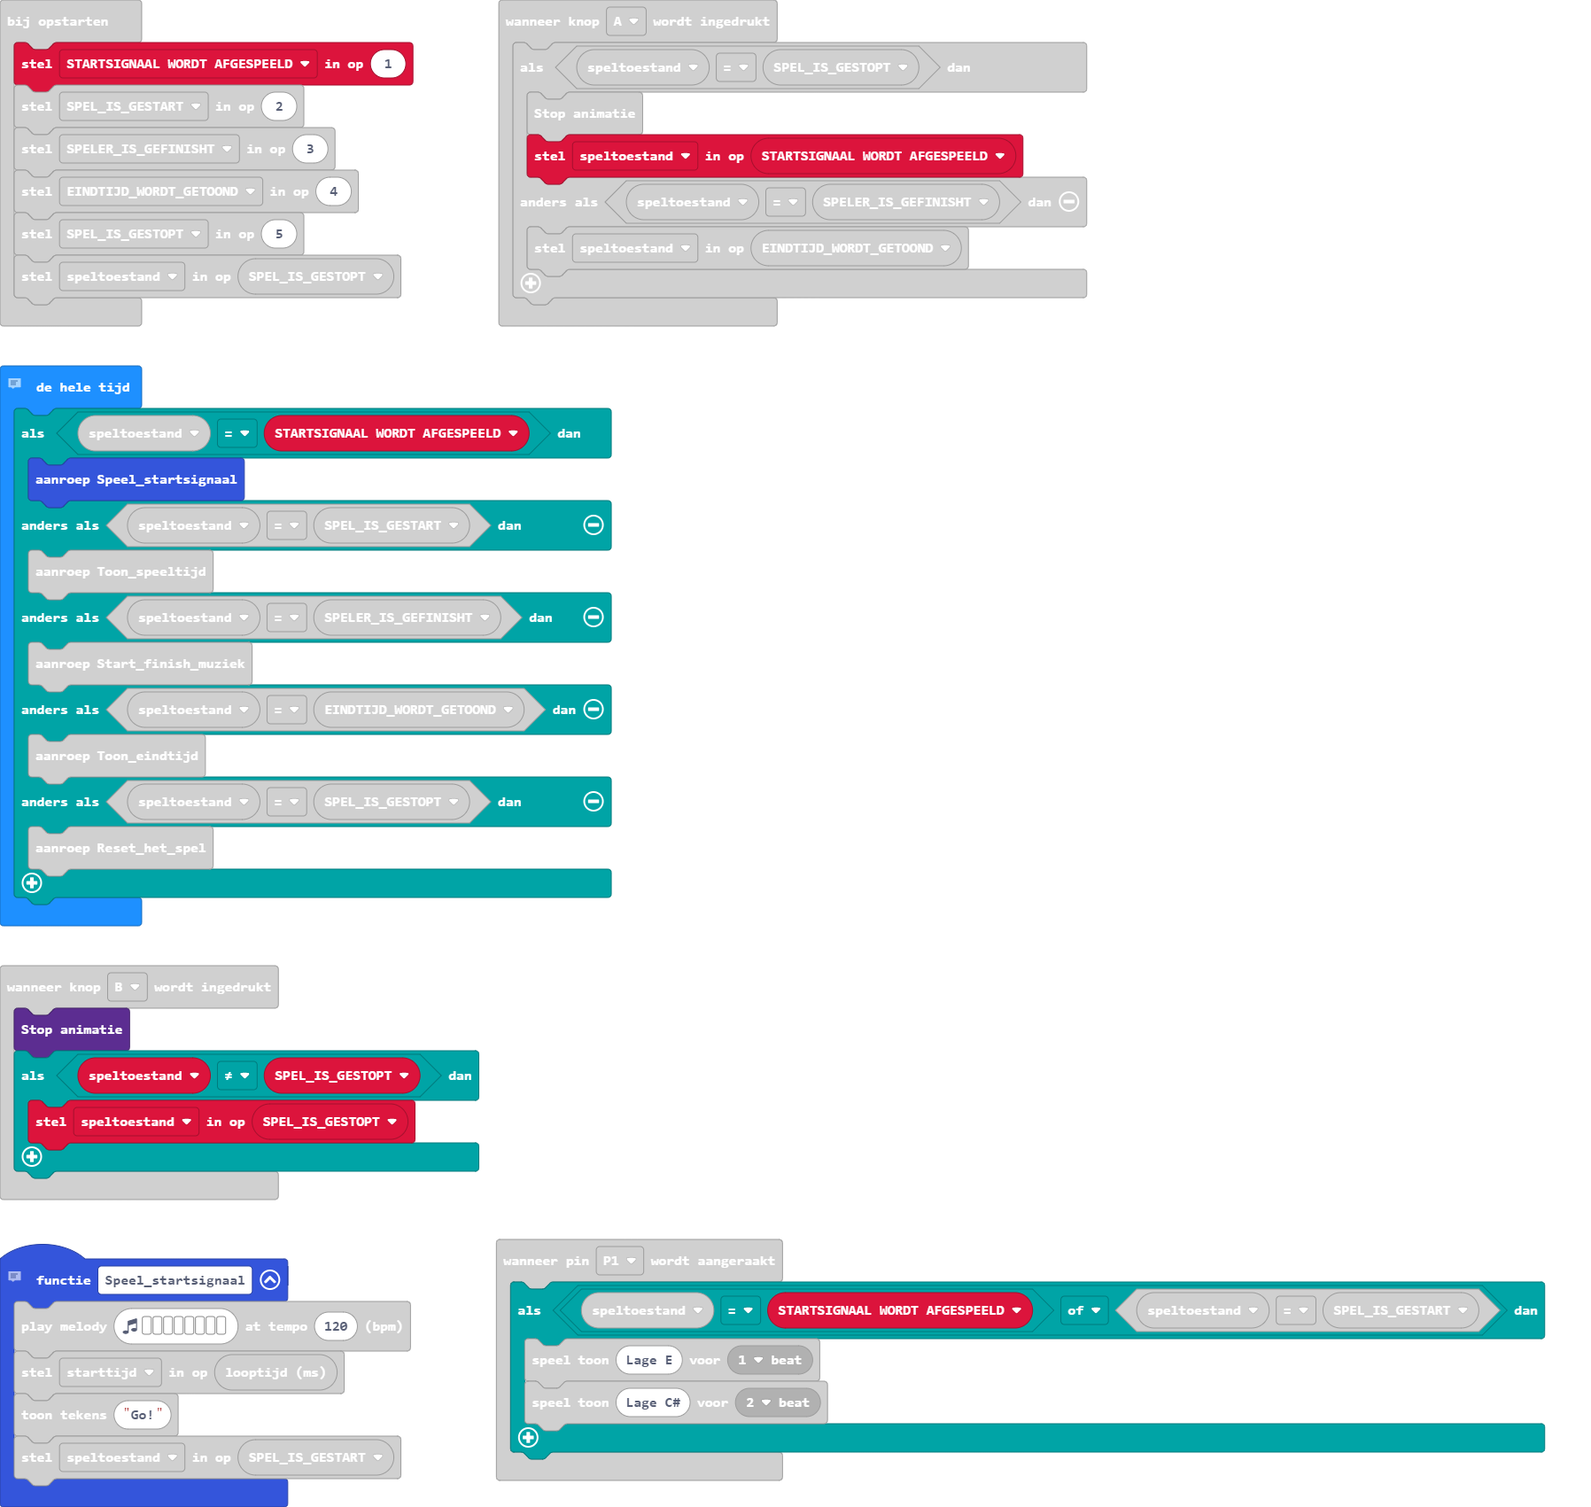
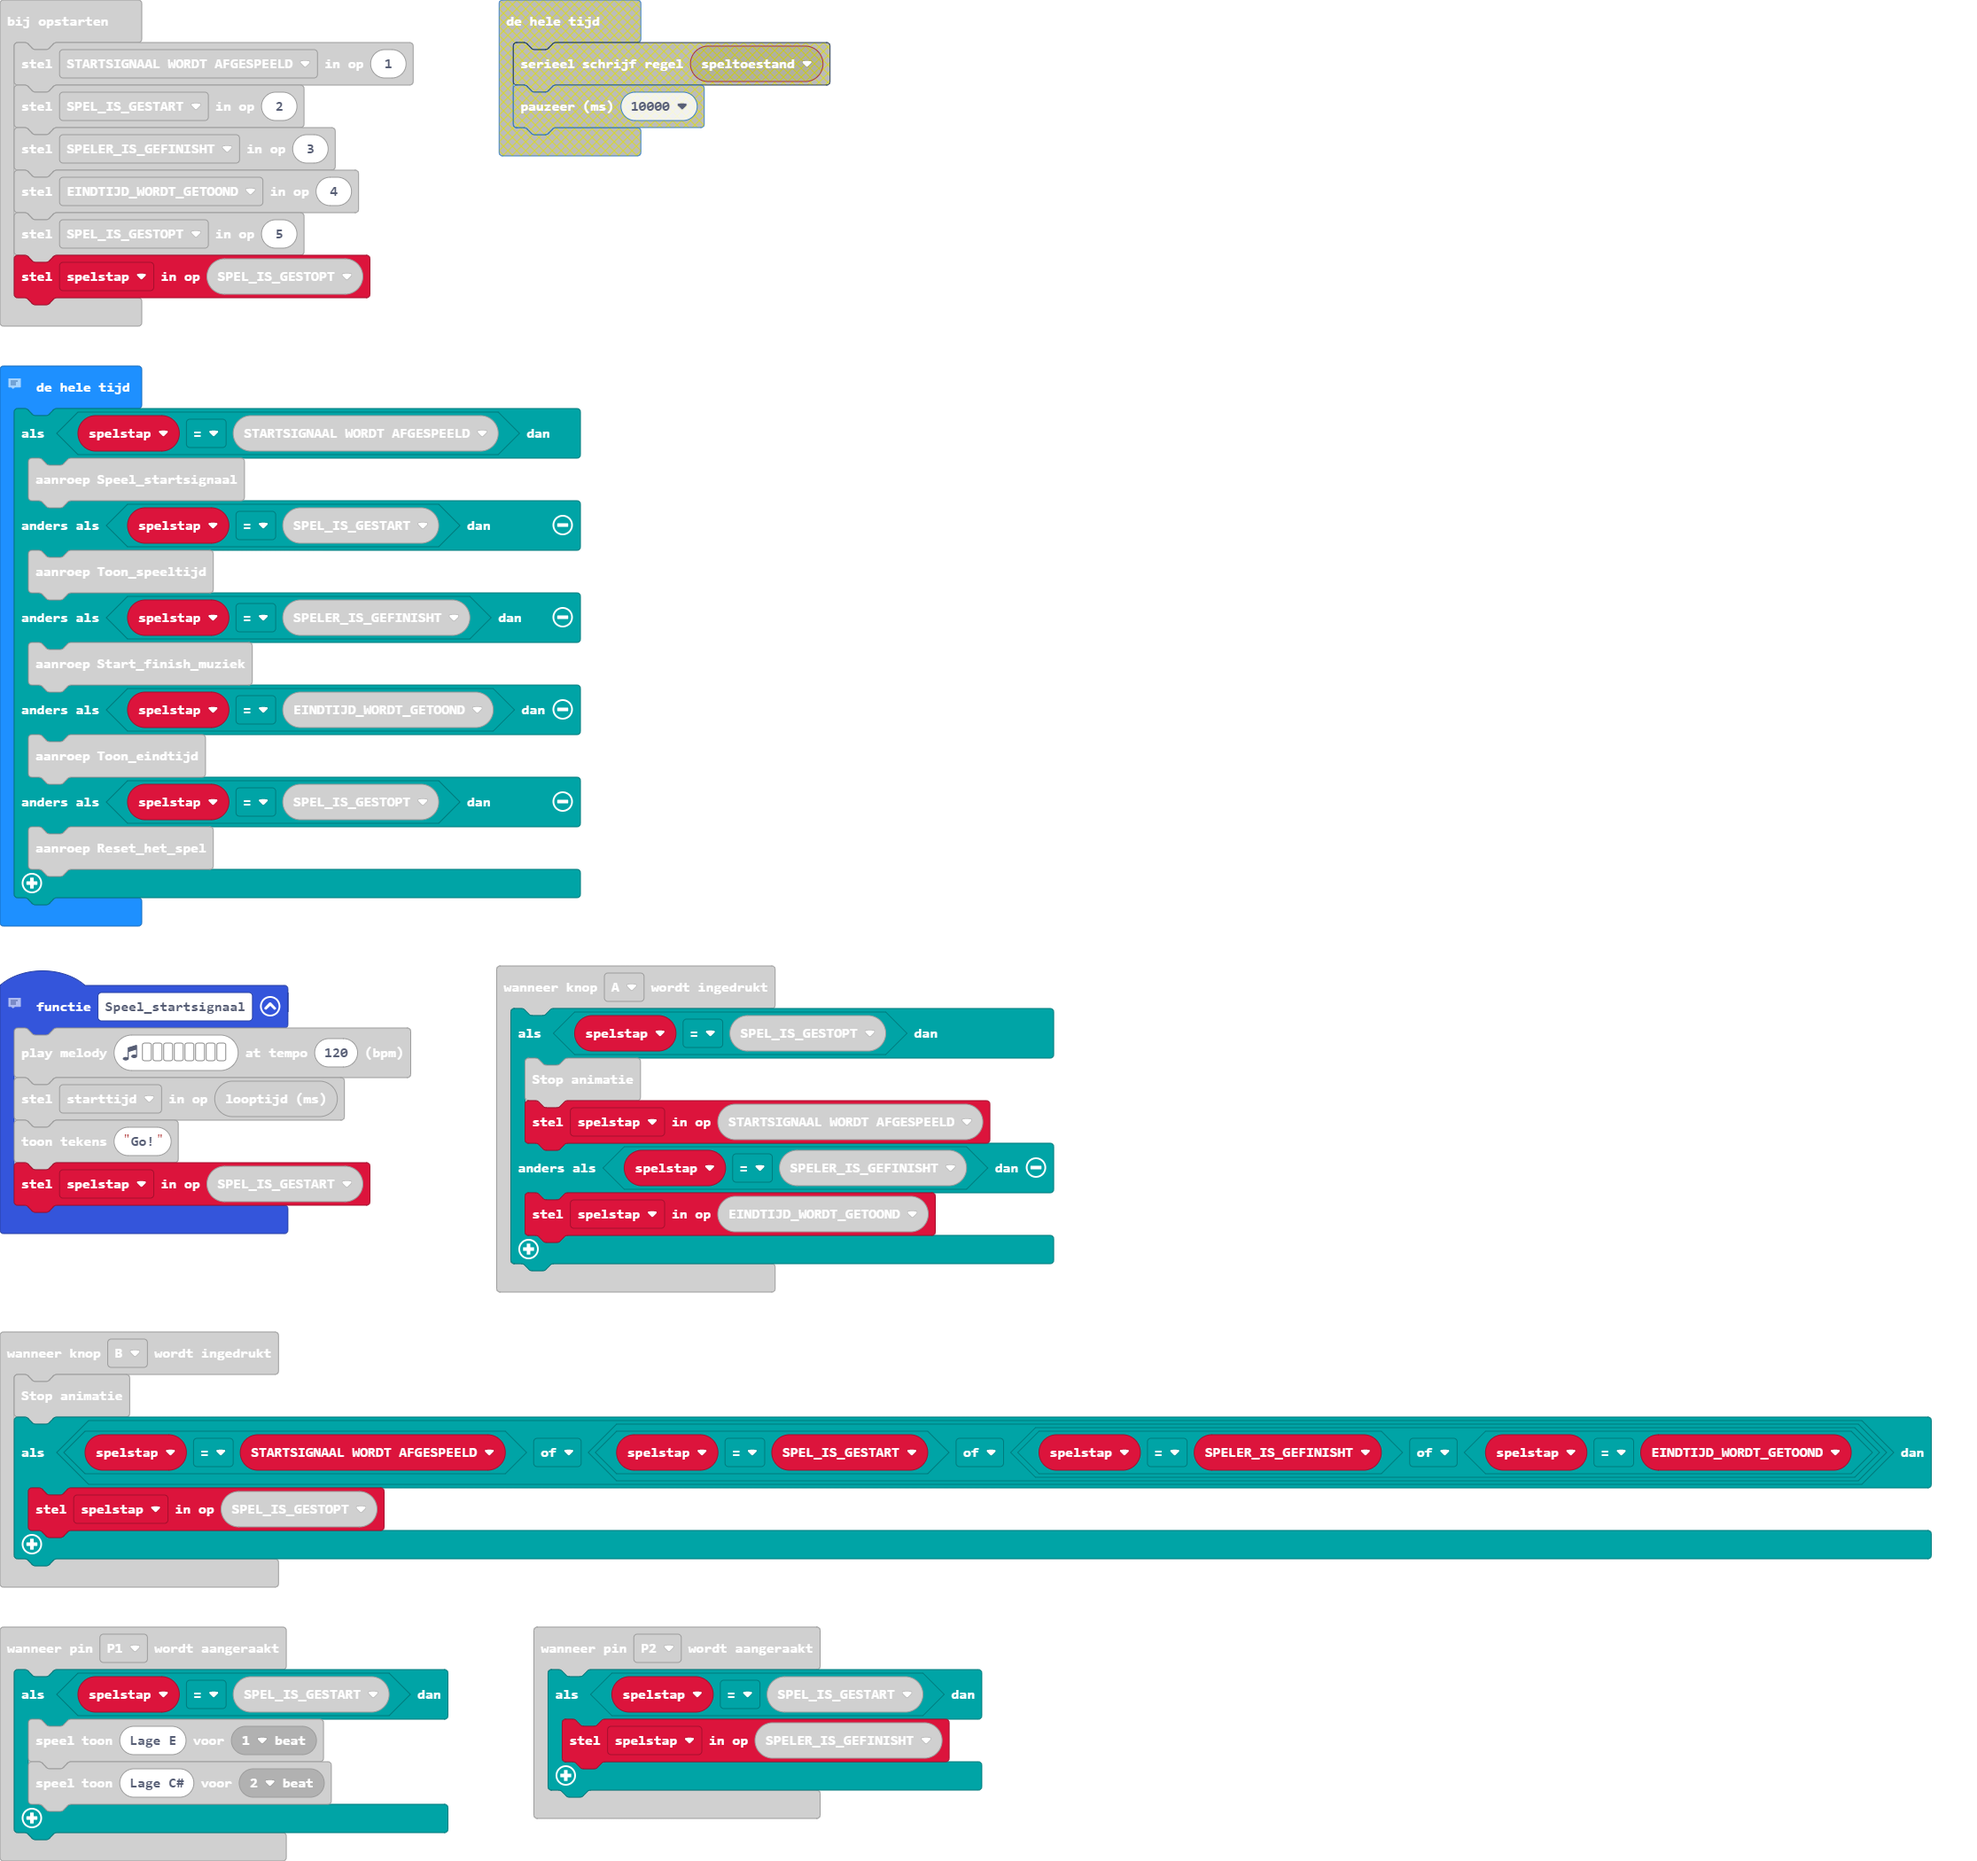
Update main.blocks, main.ts

diff --git a/main.ts b/main.ts
@@ -29,11 +29,11 @@ function Toon_speeltijd () {
     }
 }
 input.onButtonPressed(Button.A, function () {
-    if (speltoestand == SPEL_IS_GESTOPT) {
+    if (spelstap == SPEL_IS_GESTOPT) {
         led.stopAnimation()
-        speltoestand = STARTSIGNAAL_WORDT_AFGESPEELD
-    } else if (speltoestand == SPELER_IS_GEFINISHT) {
-        speltoestand = EINDTIJD_WORDT_GETOOND
+        spelstap = STARTSIGNAAL_WORDT_AFGESPEELD
+    } else if (spelstap == SPELER_IS_GEFINISHT) {
+        spelstap = EINDTIJD_WORDT_GETOOND
     }
 })
 // - Speel het aftelgeluid af
@@ -43,7 +43,7 @@ function Speel_startsignaal () {
     music.playMelody("C - C - C5 - - - ", 120)
     starttijd = input.runningTime()
     basic.showString("Go!")
-    speltoestand = SPEL_IS_GESTART
+    spelstap = SPEL_IS_GESTART
 }
 // - Stop de finish muziek
 // 
@@ -53,8 +53,8 @@ function Toon_eindtijd () {
     basic.showString(" Tijd: " + speeltijd)
 }
 input.onPinPressed(TouchPin.P2, function () {
-    if (speltoestand == SPEL_IS_GESTART) {
-        speltoestand = SPELER_IS_GEFINISHT
+    if (spelstap == SPEL_IS_GESTART) {
+        spelstap = SPELER_IS_GEFINISHT
     }
 })
 input.onButtonPressed(Button.AB, function () {
@@ -63,12 +63,12 @@ input.onButtonPressed(Button.AB, function () {
 })
 input.onButtonPressed(Button.B, function () {
     led.stopAnimation()
-    if (speltoestand != SPEL_IS_GESTOPT) {
-        speltoestand = SPEL_IS_GESTOPT
+    if (spelstap == STARTSIGNAAL_WORDT_AFGESPEELD || (spelstap == SPEL_IS_GESTART || (spelstap == SPELER_IS_GEFINISHT || spelstap == EINDTIJD_WORDT_GETOOND))) {
+        spelstap = SPEL_IS_GESTOPT
     }
 })
 input.onPinPressed(TouchPin.P1, function () {
-    if (speltoestand == STARTSIGNAAL_WORDT_AFGESPEELD || speltoestand == SPEL_IS_GESTART) {
+    if (spelstap == SPEL_IS_GESTART) {
         music.playTone(165, music.beat(BeatFraction.Whole))
         music.playTone(139, music.beat(BeatFraction.Double))
     }
@@ -76,7 +76,7 @@ input.onPinPressed(TouchPin.P1, function () {
 let speeltijd = 0
 let starttijd = 0
 let muziek_is_gestart = false
-let speltoestand = 0
+let spelstap = 0
 let SPEL_IS_GESTOPT = 0
 let EINDTIJD_WORDT_GETOOND = 0
 let SPELER_IS_GEFINISHT = 0
@@ -87,22 +87,18 @@ SPEL_IS_GESTART = 2
 SPELER_IS_GEFINISHT = 3
 EINDTIJD_WORDT_GETOOND = 4
 SPEL_IS_GESTOPT = 5
-speltoestand = SPEL_IS_GESTOPT
+spelstap = SPEL_IS_GESTOPT
 // Hoofdprogramma
 basic.forever(function () {
-    if (speltoestand == STARTSIGNAAL_WORDT_AFGESPEELD) {
+    if (spelstap == STARTSIGNAAL_WORDT_AFGESPEELD) {
         Speel_startsignaal()
-    } else if (speltoestand == SPEL_IS_GESTART) {
+    } else if (spelstap == SPEL_IS_GESTART) {
         Toon_speeltijd()
-    } else if (speltoestand == SPELER_IS_GEFINISHT) {
+    } else if (spelstap == SPELER_IS_GEFINISHT) {
         Start_finish_muziek()
-    } else if (speltoestand == EINDTIJD_WORDT_GETOOND) {
+    } else if (spelstap == EINDTIJD_WORDT_GETOOND) {
         Toon_eindtijd()
-    } else if (speltoestand == SPEL_IS_GESTOPT) {
+    } else if (spelstap == SPEL_IS_GESTOPT) {
         Reset_het_spel()
     }
-})
-basic.forever(function () {
-    serial.writeLine("" + (speltoestand))
-    basic.pause(10000)
 })
